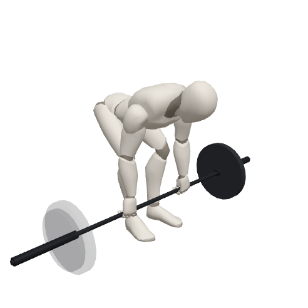
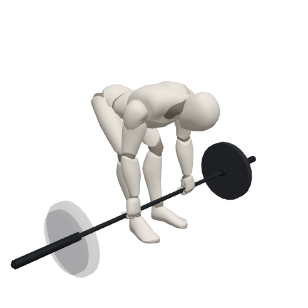
Repaso de J–M: remo Pendlay rehecho y rumano con mancuernas como el de barra
El Pendlay tenía la cadera baja y los muslos casi horizontales: la barra
los atravesaba y no pasaba de las rodillas. El rumano con mancuernas
bajaba a 84° y con el cuello doblado se leía con la espalda redonda.

Claude-Session: https://claude.ai/code/session_01XMvXWrcLVocq7tcBrDXEzd

diff --git a/docs/PLAN.md b/docs/PLAN.md
@@ -134,9 +134,15 @@ ejercicio en paralelo, cada uno en su worktree, y se revisa la hoja antes de pub
   piernas colgado y plancha con toque de hombro. Sin cambios al motor. La elevación de rodillas
   pasa a material «barra fija», como las dominadas: con «barra» el filtro las separaba.
 - ⬜ N · Grupos nuevos.
+- ✅ **Repaso de las hojas J–M:** el remo Pendlay estaba mal (la barra atravesaba los muslos y se
+  quedaba en las rodillas, con la cadera baja y los muslos casi horizontales) y se rehízo con la
+  cadera alta y atrás; el rumano con mancuernas bajaba a 84° con la espalda y la cabeza colgando, y
+  ahora va como el de barra (72°, cuello neutro).
 - ⬜ **Para la revisión final con Migue:** el face pull va con agarre corto porque la polea no tiene
-  cuerda; el remo en polea sentado apila las manos en un mango vertical en vez del triángulo; y en
-  el remo Pendlay hay que confirmar girando la cámara si la espalda alta se ve abombada. De la M:
+  cuerda; el remo en polea sentado apila las manos en un mango vertical en vez del triángulo, y va
+  en banco con los pies en el suelo y las rodillas a 90°, no en máquina con las piernas casi
+  estiradas como dice la ficha; en el Pendlay, de perfil el disco tapa las rodillas por
+  perspectiva y las espinillas van 9° hacia atrás. De la M:
   la curva del hollow hold es discreta (la columna no se flexiona solo por arriba); en el toque de
   hombro la palma mira a la cara, porque `pronacion` solo vale con mancuerna, y la mano pasa de
   plana a alineada de golpe; el superman despega las manos unos 31 cm y deja las rodillas algo
